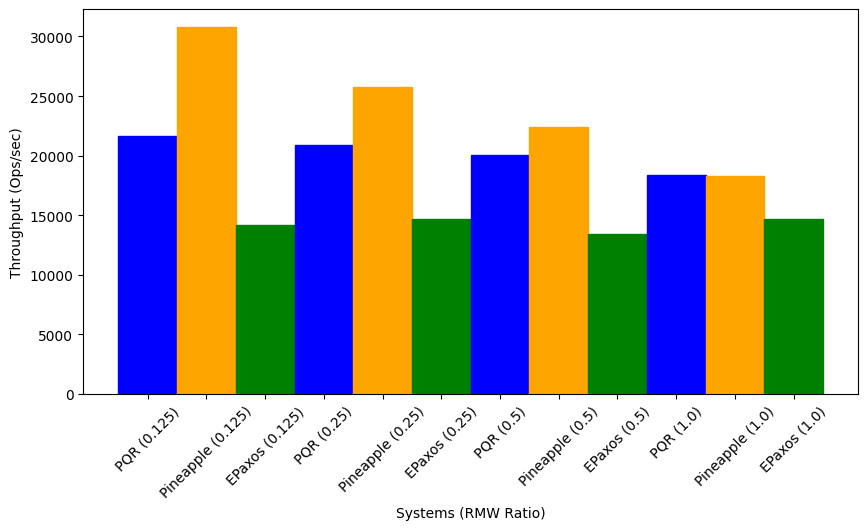
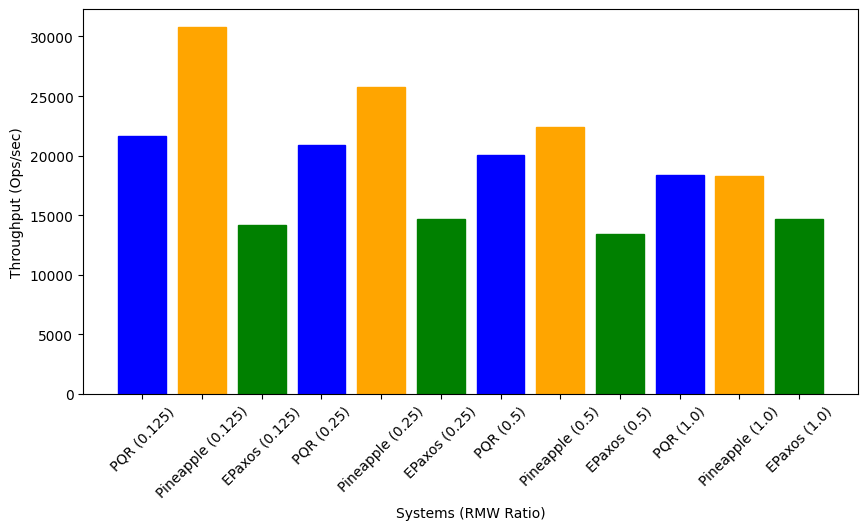
thinner bars

diff --git a/tpt.py b/tpt.py
@@ -11,7 +11,7 @@ fig = plt.figure(figsize = (10, 5))
  
 # creating the bar plot
 bars = plt.bar(protocol, tpt, 
-        width = 1)
+        width = 0.8)
 
 for x in range(4):
     bars[3*x].set_color('blue')
@@ -28,6 +28,6 @@ plt.ylabel("Throughput (Ops/sec)")
 plt.savefig("test3-1.png", bbox_inches="tight")
 
 
-bars = plt.bar(protocol, tpt, 
-        width = 1.5)
-plt.savefig("test3-1.5.png", bbox_inches="tight")
+#bars = plt.bar(protocol, tpt, 
+#        width = 1.5)
+#plt.savefig("test3-1.5.png", bbox_inches="tight")
